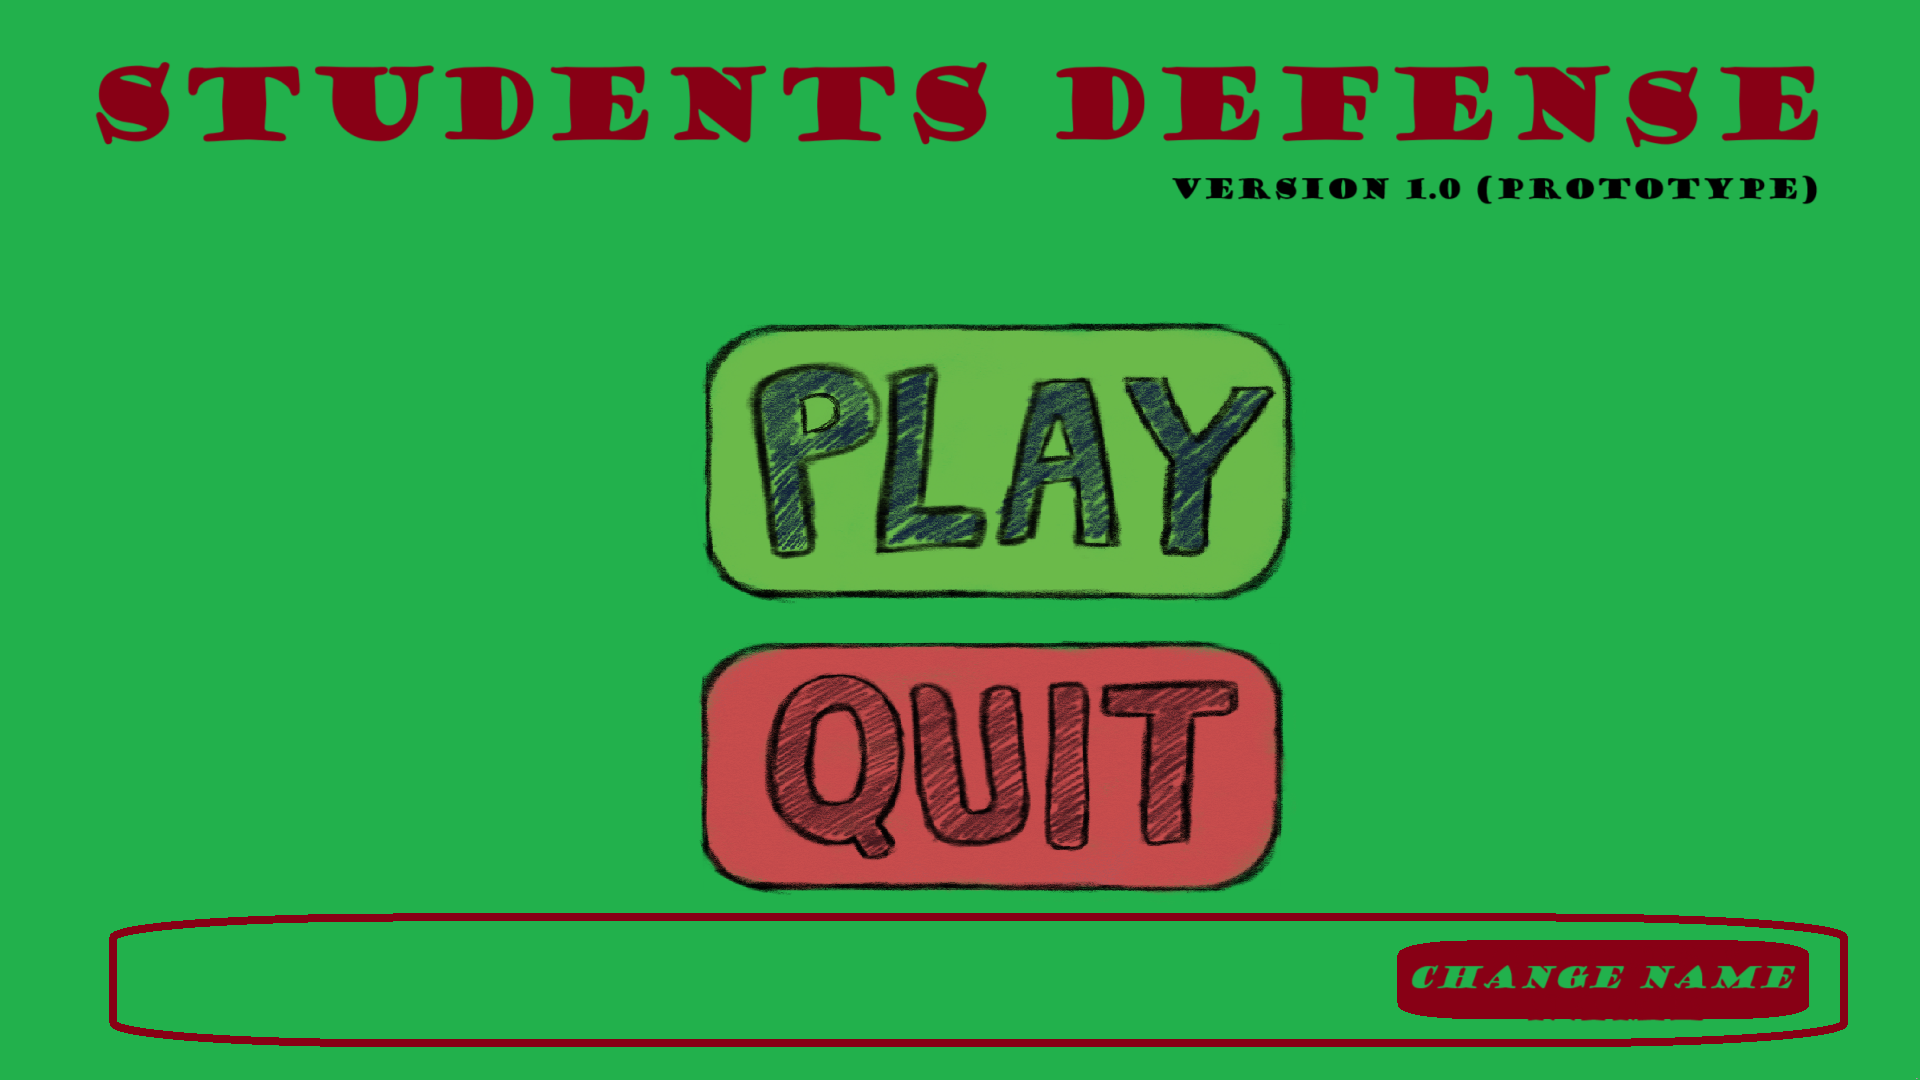
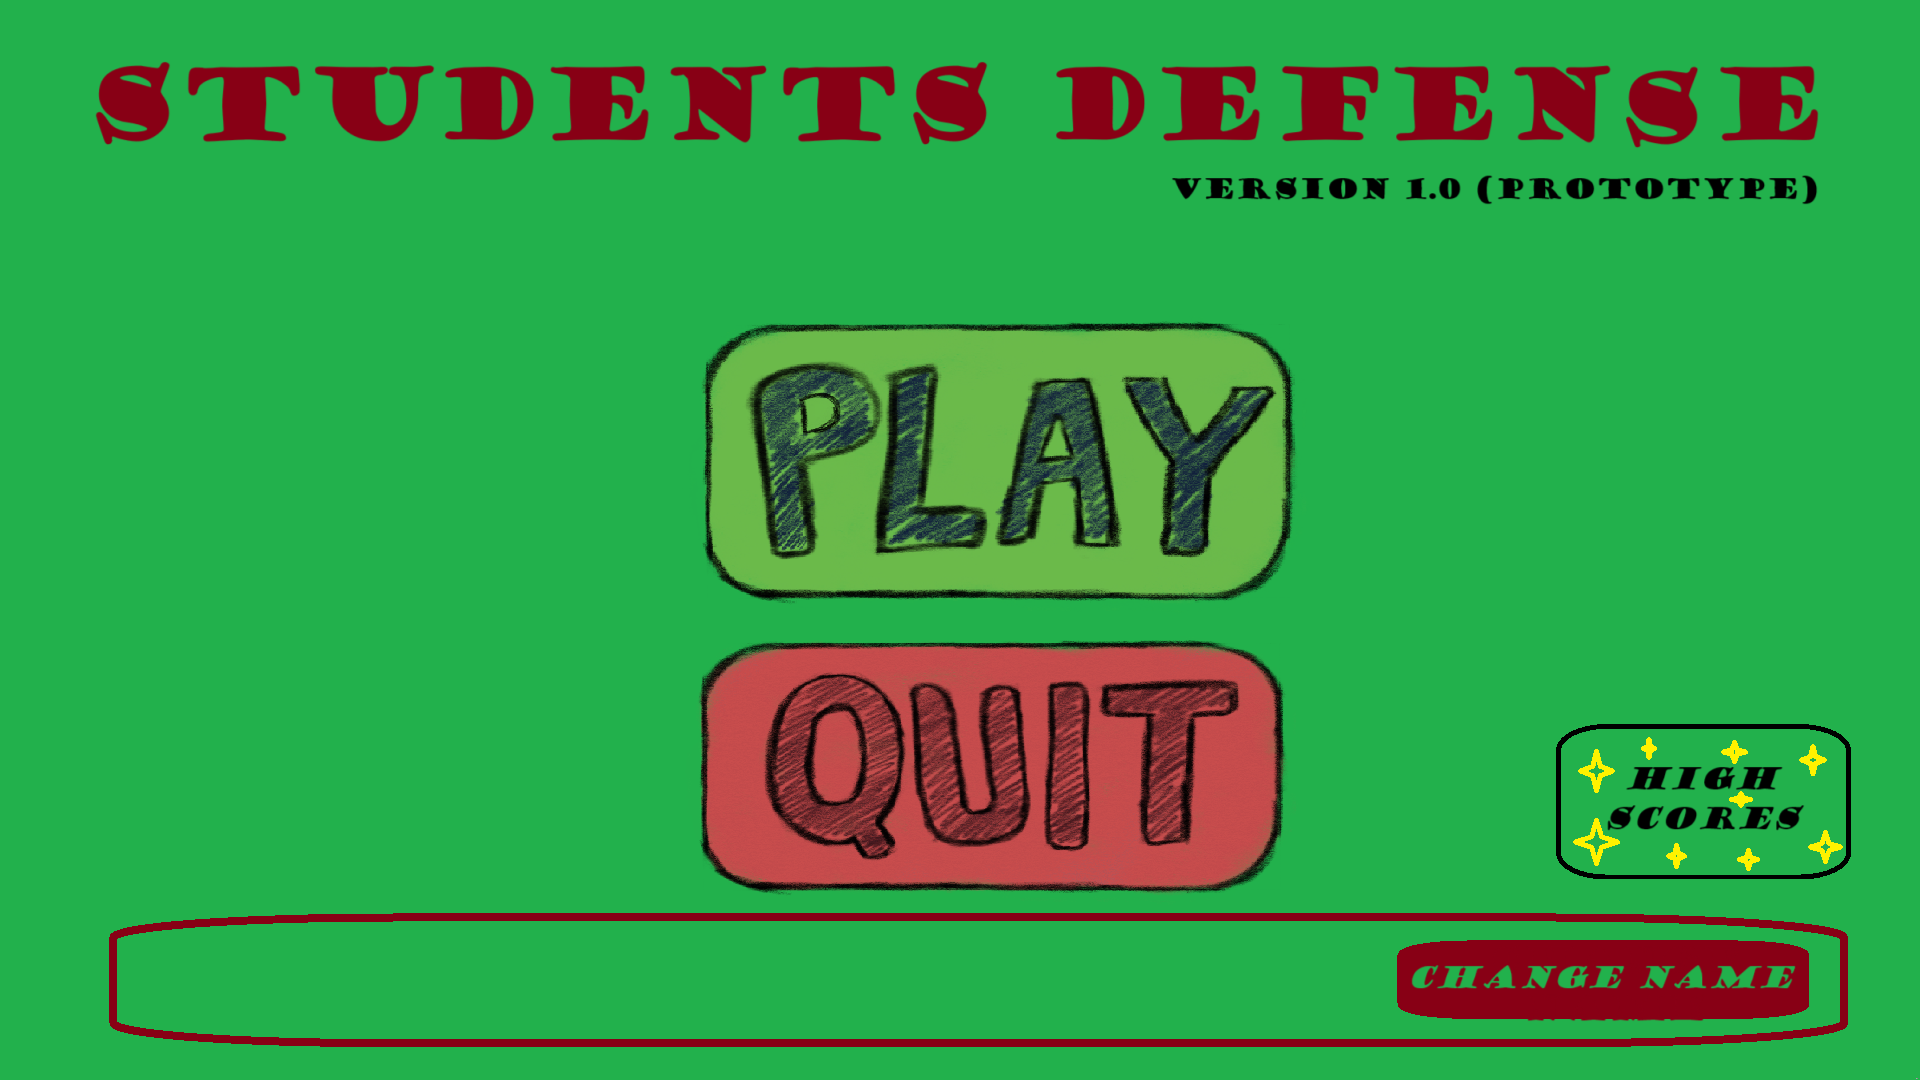
Add fully functional High Score methods

Changed region(s): [[0.8125, 0.6722, 0.9688, 0.825]]

diff --git a/Classes/Utilities.py b/Classes/Utilities.py
@@ -8,13 +8,15 @@ Classes:
     InputBox - Represents an input box in the game, provides functionality for creating an input box that can handle user input.
 
 Functions:
-    (If you have any specific functions, list them here with a brief description.)
-"""
+    xor(text : str, key : str, decrypt : bool = False) -> str: Encrypts or decrypts a given text using XOR cipher with a provided key.
+    load_high_scores(root_directory : str) -> tuple[tuple[str, int]]: Loads High Score records from a designated file.
+    save_high_score(root_directory : str, name : str, score : int) -> None: Saves a new high score record to the high score file.
+    """
 
 
 #IMPORTS
 from dataclasses import dataclass
-import typing, pygame
+import typing, pygame, os
 
 
 # CLASSES
@@ -228,8 +230,163 @@ class InputBox:
             pygame.draw.rect(screen, self.current_color, self.rect, 2)
 
 
+# FUNCTIONS
+def xor(text : str, key : str, decrypt : bool = False) -> str:
+    """
+    Encrypts or decrypts a given text using XOR cipher with a provided key.
+
+    The XOR cipher is a symmetric encryption algorithm that operates by taking 
+    the exclusive OR of each character in the input text with a character 
+    from the key.
+
+    The function operates as follows:
+    1. For each character in the input text, it computes the XOR of the ASCII 
+       value of the character with the ASCII value of the corresponding character 
+       in the key. 
+    2. The key is repeated cyclically to match the length of the text.
+    3. The resulting ASCII values are converted to hexadecimal to ensure 
+       all characters are printable.
+
+    Parameters:
+
+        text (str): The input text to be encrypted or decrypted. This can be any string of characters.
+
+        key (str):  The key used for the XOR operation. The key can be of any length; if the 
+                    key is shorter than the text, it will be repeated cyclically to match 
+                    the length of the text.
+        
+        decrypt (bool): Wheter to perform decryption process (True) or encryption (False).
+                        It's important for hexadecimal convertion. (defaults to False)
+
+    Returns:
+
+    str:    The resulting text after applying the XOR operation and encoding/decoding 
+            in hexadecimal. If the input was plaintext, the output will be ciphertext, 
+            and vice versa.
 
 
+    Notes:
+    - The XOR cipher is not secure for most practical applications, especially if 
+      the key is shorter than the text or if the same key is reused. It is generally 
+      used for simple obfuscation rather than secure encryption.
+    - The XOR operation can result in non-printable characters, which are handled 
+      by converting the result to hexadecimal format.
+    """
+    # Encode to hexadecimal
+    if decrypt:
+        text = bytes.fromhex(text).decode('utf-8')
+
+    # XOR the text
+    xor_result = ''.join(chr(ord(c) ^ ord(key[i % len(key)])) for i, c in enumerate(text))
+
+    # Decode from hexadecimal format
+    if not decrypt:
+        xor_result = xor_result.encode('utf-8').hex()
+
+    return xor_result
+
+def load_high_scores(root_directory : str) -> tuple[tuple[str, int]]:
+    """
+    Loads High Score records from a designated file.
+
+    Parameters:
+        root_directory (str): Root directory of the repository for easy relative path meneging.
+
+    Returns:
+        tuple[tuple[str, int]]: A list of tuples containing names and corresponding scores.
+
+    Raises:
+        FileNotFoundError: If the high scores file is not found.
+        HighScoreFileFormatError: If the file content is not in the expected format.
+    """
+
+    path = os.path.join(root_directory, "Assets", "menu_data", "hs.dat")
+    ENCRYPTION_KEY = "e^(i*pi) = -1" # Should not be changed to decrypt the encrypted data
+
+    # Check if the file exists
+    if not os.path.exists(path):
+        raise FileNotFoundError(f"High Score file not found: {path}")
+    
+    # Open and read the file
+    with open(path, 'r') as file:
+        records = file.readlines()
+        print(records)
+
+        try:
+            # Decrypt the data discarding comments in the file
+            records = [xor(line, ENCRYPTION_KEY, True) for line in records if not line.startswith('#')]
+            print(records)
+            # Split the records to names and corresponding scores
+            records = [line.strip().split(',') for line in records]
+            print(records)
+            # Format the file content to a list of tuples
+            records = [(record[0].strip(), int(record[1].strip())) for record in records]
+            print(records)
+        
+        except ValueError as ve:
+            # Create custom Error class
+            class HighScoreFileFormatError(Exception):
+                def __init__(self, issue: str, file_path: str) -> None:
+                    self.issue = issue
+                    self.file_path = file_path
+                    self.message = (f"File at {self.file_path} includes formatting error: {self.issue}. "
+                                    "High Score records should be divided by a new line symbol "
+                                    "and be formatted as 'Name, Score'. "
+                                    "All other white characters at the beginning and end of records "
+                                    "will be stripped and do not affect them. "
+                                    "All lines starting with a hash symbol ('#') "
+                                    "will be omitted by the file reading function.")
+                    super().__init__(self.message)
+            
+            # Raise custom error
+            raise HighScoreFileFormatError(f"Invalid score format: {ve}", path)
+    
+    # Sort records in descending order
+    records.sort(key=(lambda x: int(x[1])), reverse=True)
+
+    return tuple(records)
+
+def save_high_score(root_directory : str, name : str, score : int) -> None:
+    """
+    Saves a new high score record to the high score file.
+
+    This function encrypts the high score data before writing it to the file to ensure that it
+    cannot be easily modified by a user.
+
+    Parameters:
+        root_directory (str): The root directory of the repository for easy relative path management.
+        name (str): The name of the player.
+        score (int): The score achieved by the player.
+
+    Raises:
+        FileNotFoundError: If the high score file is not found.
+        PermissionError: If there are insufficient permissions to write to the file.
+        IOError: If there is an input/output error during the file operation.
+        Exception: For any other unexpected exceptions.
+    """
+    # Get path to high scores data
+    path = os.path.join(root_directory, "Assets", "menu_data", "hs.dat")
+
+    # Set decryption key as the same value as when encrypting
+    DECRYPTION_KEY = "e^(i*pi) = -1"  # Should not be changed to decrypt the encrypted data
+
+    # Open the file and write new score
+    try:
+        with open(path, 'a') as file:
+            encrypted_data = xor(f"\n{name}, {score}", DECRYPTION_KEY)
+            file.write(encrypted_data)
+
+    except FileNotFoundError:
+        raise FileNotFoundError(f"High Score file not found: {path}")
+    
+    except PermissionError:
+        raise PermissionError(f"Insufficient permissions to write to the file: {path}")
+    
+    except IOError as e:
+        raise IOError(f"An I/O error occurred: {e}")
+    
+    except Exception as e:
+        raise Exception(f"An unexpected error occurred: {e}")
 
 
 

diff --git a/Classes/UI/UI.py b/Classes/UI/UI.py
@@ -6,7 +6,7 @@ including input from the keyboard and mouse and drawing graphics (potentially al
 # IMPORTS
 import pygame, os, sys
 from ..Tower.Tower_Classes import Tower_Manager, Tower
-from ..Utilities import Coord, InputBox
+from ..Utilities import Coord, InputBox, load_high_scores, xor
 from ..Player.Player import Player
 from ..Map.Map_Class import Map as mp
 from ..Enemy.Enemy import Enemy_Manager
@@ -36,6 +36,7 @@ class UI():
         enemies_gfx (dict): Graphics for the enemies.
         number_of_waves (int): Total number of waves in the current level.
         current_wave (int): The current wave number.
+        directory (str): Path to the root directory of the repository.
 
     Methods:
         __init__(player_name: str) -> None: Initializes the UI instance and sets up the display and initial variables.
@@ -63,14 +64,13 @@ class UI():
     RESOLUTION : tuple[int, int] = 1920, 1080
 
     # Constructor
-    def __init__(self, player_name : str, root_directory : str) -> None:
+    def __init__(self, root_directory : str) -> None:
         """
         Initializes the UI class.
 
         Sets up the game window, initializes utility variables, and loads HUD elements.
 
         Args:
-            player_name (str): The name of the player.
             root_directory (str): Path to the main calogue f the repository for relative path operations.
         """
         # SET UP WONDOW AND PYGAME
@@ -96,6 +96,9 @@ class UI():
         self.font = pygame.font.SysFont("Consolas", 50)
         self.hp_font = pygame.font.SysFont("Consolas", 20)
         self.button_gfx = pygame.image.load(os.path.join(self.gfx_path, "HUD", "BLANK_BUTTON.png"))
+
+        # Save root directory to an atribute
+        self.directory = root_directory
 
     # Input
     def process_input(self, map : mp, player : Player) -> bool:
@@ -212,26 +215,27 @@ class UI():
 
     def main_menu(self, player : Player) -> str:
         """
-        Displays the main menu and handles user input.
+        Displays the main menu and handles user input, 
+        that includes changing users name displaying high scores 
+        or returnin a string informing starting a game or quiting.
 
         Args:
             player (Player): Player instance for player name access.
 
         Returns:
             str:    "start" if the start button is pressed, 
-                    "quit" if the quit button is pressed,
-                    "change name" if user wants to trigger changing name.
+                    "quit" if the quit button is pressed
         """
-        # Load and display background graphic
+        # Load background graphic
         main_menu_graphic = pygame.image.load(os.path.join(self.gfx_path, "main_menu.png"))
-        self.screen.blit(main_menu_graphic, (0, 0))
-
-        # Display user name
-        self.screen.blit(self.font.render(f"Player name: {player.name}", False, (100, 0, 0)), (150, 960))
-
 
         # Main menu loop
         while True:
+            
+            # Display background graphic
+            self.screen.blit(main_menu_graphic, (0, 0))
+            # Display player name
+            self.screen.blit(self.font.render(f"Player name: {player.name}", False, (100, 0, 0)), (150, 960))
 
             # HANDLE EVENTS (eg. key press)
             for event in pygame.event.get():
@@ -249,6 +253,7 @@ class UI():
             # PROCESS INTERACTION
             if self.mouse_click:
                 x, y = self.pos
+                # Play and quit buttons
                 if 700 < x < 1300:
                     # Start button pressed
                     if 325 < y < 600:
@@ -257,14 +262,19 @@ class UI():
                     # Quit button pressed
                     elif 640 < y < 880:
                         return "quit"
-                # Name change
+                
+                # Name change and High Scores
                 elif 1400 < x < 1800:
                     if 940 < y < 1015:
                         player.name = self.handle_name_change(player.name, main_menu_graphic)
-                        self.screen.blit(main_menu_graphic, (0, 0))
-                        self.screen.blit(self.font.render(f"Player name: {player.name}", False, (100, 0, 0)), (150, 960))
-                        self.mouse_click = False
-
+                        
+                    # High Scores
+                    elif x > 1550:
+                        if 725 < y < 875:
+                            self.high_scores()
+                
+            self.mouse_click = False
+                
             # Update pygame and clock every 60'th of a secound
             pygame.display.flip()
             self.clock.tick(self.FPS)
@@ -298,6 +308,46 @@ class UI():
 
         # Wait for a secound after writing finnished
         pygame.time.delay(1000)
+
+    def high_scores(self) -> None:
+        """
+        Displays High Scores.
+
+        Loads High Scores from file and displays them.
+        Waits for user to exit back to main menu vie ESCAPE button press.
+        """
+        # Get data
+        hs = load_high_scores(self.directory)
+        # Initialize length of displayed records
+        records_width = 45
+
+        # Blit background image
+        self.screen.blit(pygame.image.load(os.path.join(self.gfx_path, "high_scores_background.png")), (0, 0))
+
+        # Blit exit instructions
+        self.screen.blit(self.font.render("Press escape to exit High Scores", False, (50, 50, 50)), (570, 180))
+
+        # Blit records
+        x, y = 300, 260
+        for i, record in enumerate(hs[:10], 1):
+            num, num_len = (str(i) + ".  ", 3) if i != 10 else ("10. ", 4)
+            formatted_record = num + \
+                               record[0] + \
+                               '.' * (records_width - len(record[0] + str(record[1]) + str(i)) + num_len) + \
+                               str(record[1])
+            self.screen.blit(self.font.render(formatted_record, False, (255, 255, 0)), (x, y))
+            y += 70
+
+        # Update display
+        pygame.display.flip()
+
+        # Wait for user to exit High Scores using ESCAPE key
+        waiting = True
+        while waiting:
+            for event in pygame.event.get():
+                if event.type == pygame.KEYDOWN:
+                    if event.key == pygame.K_ESCAPE:
+                        waiting = False
 
     # In-frame updates
     def update(self, gold : int, lives : int, enemies : list) -> None:
@@ -465,4 +515,6 @@ class UI():
                 clock.tick(30)
             
             return input.text
-        
+
+
+

diff --git a/main.py b/main.py
@@ -3,7 +3,8 @@
 from Classes.Game.Game import Game
 import os
 
+
 if __name__ == "__main__":
-    # get current directory for easy relative paths
+    # Get current directory for easy relative paths
     scripts_directory = os.path.dirname(os.path.abspath(__file__))
     Game(scripts_directory, False , False)

diff --git a/Classes/Game/Game.py b/Classes/Game/Game.py
@@ -48,7 +48,7 @@ class Game():
         self.root_directory = root_directory
 
         # INITIALIZE HELPER CLASSES
-        self.ui = UI.UI(self.player.name, self.root_directory)
+        self.ui = UI.UI(self.root_directory)
 
         # DISPLAY INTRO
         if display_intro:
